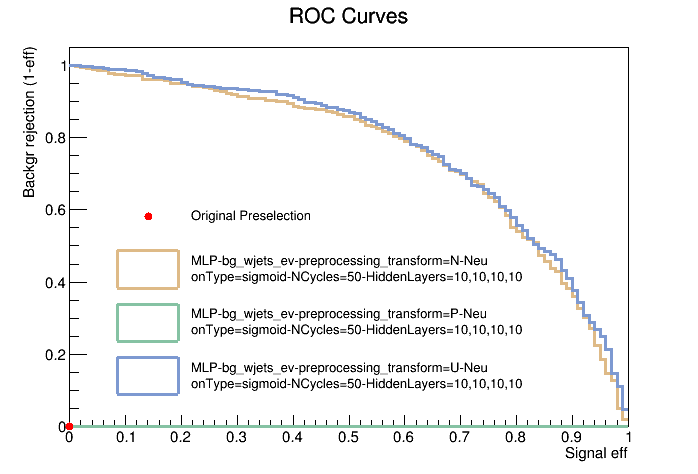
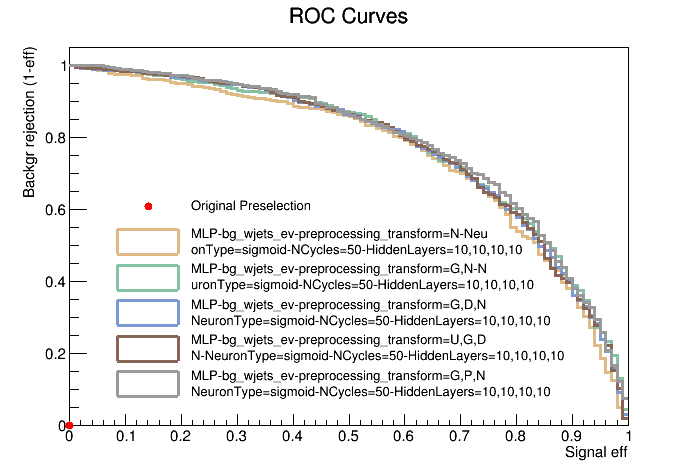
added roc curve for varying transforms

diff --git a/src/mva_analysis.cpp b/src/mva_analysis.cpp
@@ -102,7 +102,7 @@ std::cout << "=> Signal put through MVA" << std::endl;
 DataChain* output_data_chain = get_output_data_chain(data_chain, vars, method_name, trained_output);
 std::cout << "=> Data put through MVA" << std::endl;
 
-  Variable* mva_output                     = new Variable("output","MVA Output","-1.0","1.0","-0.1","0.1","100","1", "", false);
+  Variable* mva_output                     = new Variable("output","MVA Output","0.0","1.5","0.0","1.5","100","1", "", false);
   std::cout << "=> Declared MVA_Output Variable" << std::endl;
 //STEP 4 get output and variable plot names
 ////////////////////////////////////////////////////////////////////////////
@@ -146,8 +146,8 @@ mc_weights_vector = HistoPlot::mc_weights(output_data_chain, output_bg_chains, v
 
     DataCard::create_datacard(mc_weights_vector,output_data_chain, output_signal_chain, output_bg_chains, vars[1], true, &vars,mva_cut_str, var_graph_name_mva_cut);
     std::cout<<"=> DataCard created\n";
-    }
-std::cout << "=> Drew MVA Output plot for all backgrounds and signal" << std::endl;*/
+    }*/
+std::cout << "=> Drew MVA Output plot for all backgrounds and signal" << std::endl;
   
   std::cout << "Trained output name: "<< trained_output->GetName() << " " << trained_output << std::endl;
   std::cout << "test mva results " << ", " << (TH2F*) trained_output->Get("CorrelationMatrixS;1") << std::endl;
@@ -352,10 +352,10 @@ std::vector<const char*> MVAAnalysis::vary_parameters(std::vector<DataChain*> bg
 	 			}
 	 		else if (dir_name == "preprocessing_transform")
 	 			{
-                                  const char* preprocessing_transform_arr[] = {"N", "P", "U" };                                            // Norm,Deco, PCA, Uniform, Gauss          
-	 		          const char* files_arr[3];
+                                  const char* preprocessing_transform_arr[] = {"N","G,N", "G,D,N","U,G,D,N", "G,P,N" };                                            // Normalise the variable(set to between1- and 1) ,D-variable decomposition, PCA, Uniform, Gauss          
+	 		          const char* files_arr[5];
 
-    		                  for (int i = 0; i < 3; i++)
+    		                  for (int i = 0; i < 5; i++)
                                     {
     				    TFile* file = get_mva_results(bg_chains, bg_to_train, signal_chain, data_chain, super_vars, folder_name, method_name, NTrees[0],
       							BoostType[0], AdaBoostBeta[0], SeparationType[0], nCuts[0], NeuronType[0], NCycles[0], HiddenLayers[0], mva_cut_str,preprocessing_transform_arr[i]);

diff --git a/src/main.cpp b/src/main.cpp
@@ -30,18 +30,18 @@ void produce_graphs(bool with_cut) {
 
 //             0         1             2            3            4         5      6            7
 //bg[8] = {"bg_zll","bg_wjets_ev","bg_wjets_muv","bg_wjets_tauv", "bg_top", "bg_vv", "bg_zjets_vv", "bg_qcd"};
-
 /*
-for(int i =0;i<bg_chains.size(); i++){
-  for(int j =0;j<HiddenLayers.size(); j++){*/
-   /* if(std::ifstream("TMVApp1.root")){remove("TMVApp1.root");} // very important otherwise doesnt get deleted
+const char* mva_cut_arr[]={"output>0.1","output>0.2"};
+for(int i =0;i<1; i++){
+    if(std::ifstream("TMVApp1.root")){remove("TMVApp1.root");} // very important otherwise doesnt get deleted
 
-    MVAAnalysis::get_mva_results(bg_chains,3, signal_chain, data_chain, super_vars, folder_name, mva_type, NTrees[0], BoostType[0],AdaBoostBeta[0], SeparationType[0], nCuts[0], NeuronType[0],NCycles[0], HiddenLayers[0],mva_cut_str);*/
-    //std::cout<<NeuronType[1]<<"\n";*/
-/*}
+    MVAAnalysis::get_mva_results(bg_chains,0, signal_chain, data_chain, super_vars, folder_name, mva_type, NTrees[0], BoostType[0],AdaBoostBeta[0], SeparationType[0], nCuts[0], NeuronType[0],NCycles[0], HiddenLayers[0],mva_cut_str);
+    //std::cout<<NeuronType[1]<<"\n";
+    
 }
 
-std::vector<const char*> files = MVAAnalysis::get_file_vector_for_roc_curves(bg_chains[0]->label, mva_type,"NCycles",preprocessing_transform);*/
+*/
+//std::vector<const char*> files = MVAAnalysis::get_file_vector_for_roc_curves(bg_chains[0]->label, mva_type,"NCycles",preprocessing_transform);
 /*
 for(int i=0; i<files.size();i++)
 {
@@ -80,7 +80,6 @@ for (int i = 1; i < 2/*bg_chains.size()*/; i++)
                                       nCuts, NeuronType, NCycles, HiddenLayers,mva_cut_str,"N");
 
   }
-//void DataCard::create_datacard(mc_weights, data_chain, signal_chain, bg_chains, var,true, variables)
 
   for (int i = 0; i < 1; i++)
   {
